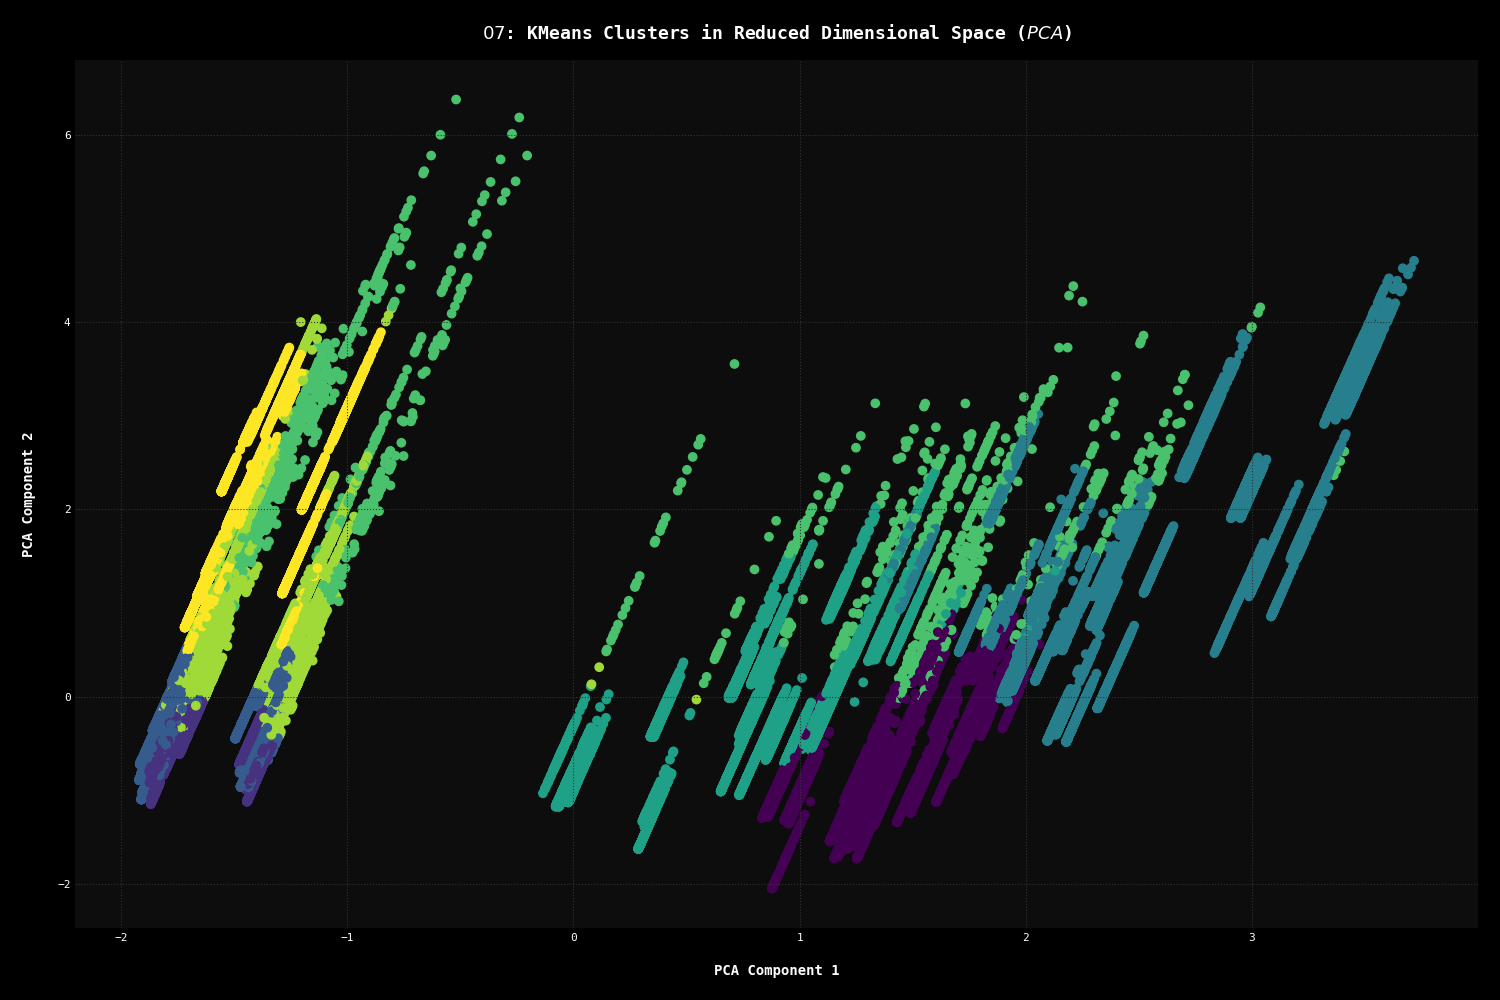
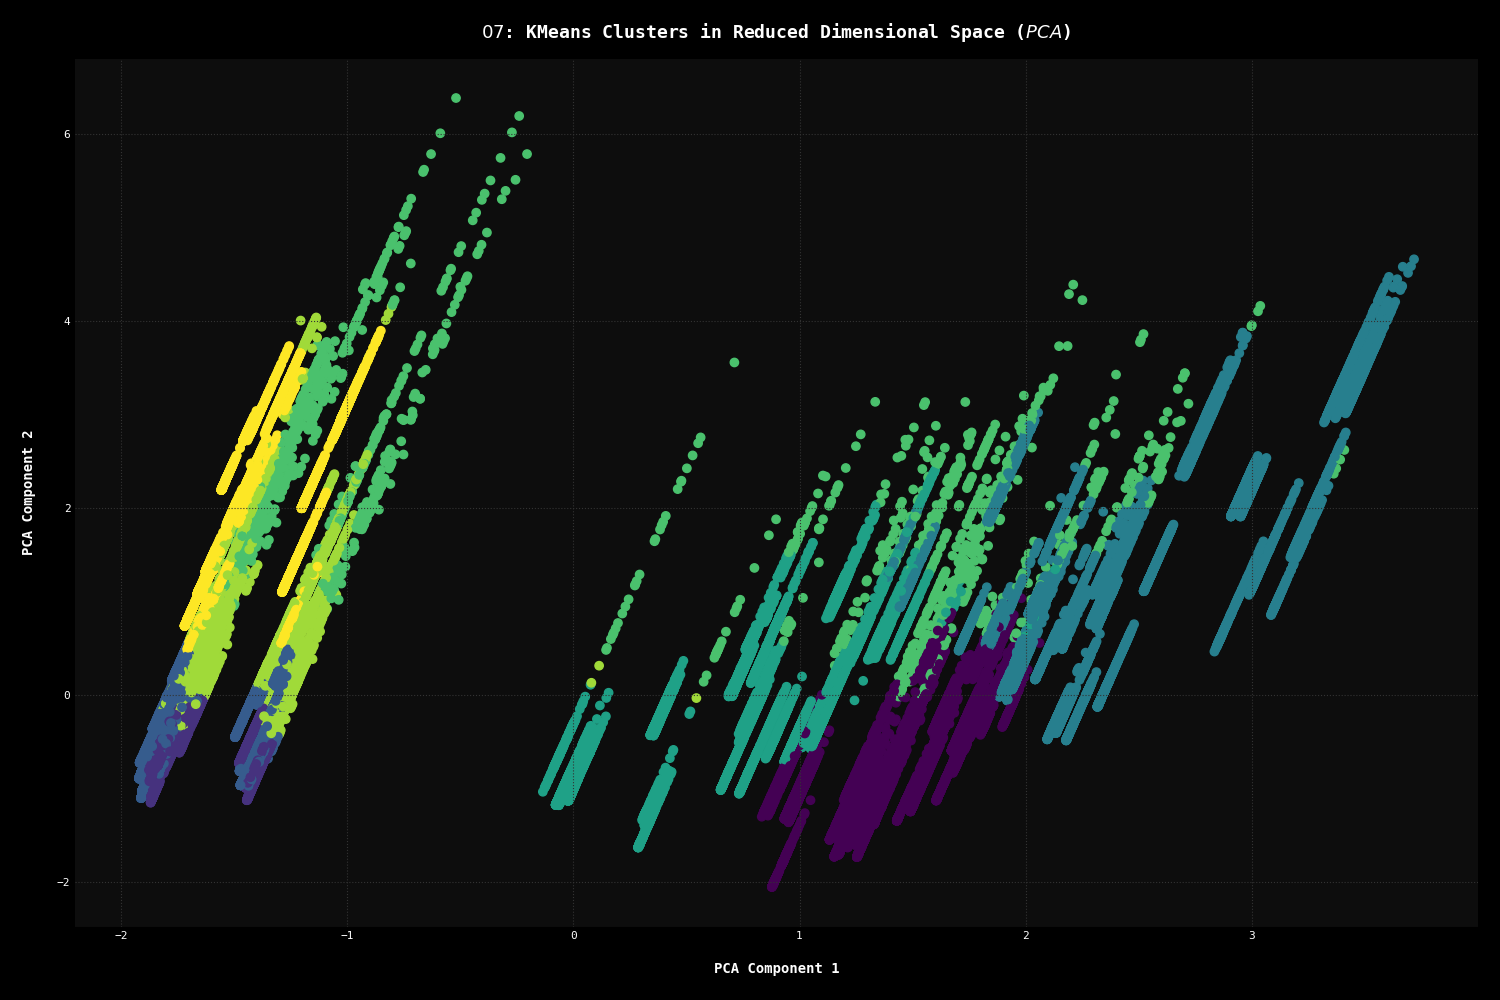
Decomposition through jp09

diff --git a/src/analysis/jp/jp09.py b/src/analysis/jp/jp09.py
@@ -1,0 +1,101 @@
+import matplotlib.pyplot as plt
+
+from analysis.jp.flat        import prepare_data
+from analysis.jp.jp04        import remove_anomalies
+from analysis.jp.jp06        import lasso
+from sklearn.ensemble        import RandomForestRegressor
+from sklearn.metrics         import mean_squared_error, r2_score
+from sklearn.model_selection import train_test_split, RandomizedSearchCV
+from utils.runtime           import find_project_root
+
+def random_forest(X_train_lasso, y_train):
+    '''
+    Fits a Random Forest Regressor model using Randomized Search CV for hyperparameter tuning and visualizes predictions.
+
+    Methodology:
+        1. Perform a train/test split on the training dataset.
+        2. Tune hyperparameters using Randomized Search CV.
+        3. Fit the best Random Forest model and make predictions.
+        4. Visualize the predicted vs. actual values and calculate R² and MSE.
+
+    Data Science Concepts:
+        • Random Forest:
+            - An ensemble learning method that operates by constructing multiple decision trees during training.
+            - For regression tasks, the output of the random forest is the mean prediction of the individual trees.
+        • Hyperparameter Tuning:
+            - The process of selecting the set of optimal hyperparameters for a learning algorithm, often using methods like 
+              grid search or randomized search.
+
+    Parameters:
+        X_train_lasso (pd.DataFrame) : The transformed training feature set from LASSO feature selection.
+        y_train       (pd.Series)    : The training target variable.
+
+    Produces:
+        A scatter plot saved as a PNG file and displayed on the screen, showing the comparison between predicted and actual values.
+    '''
+
+    # 1: Splitting the data
+    X_train_rf, X_test_rf, y_train_rf, y_test_rf = train_test_split(X_train_lasso, y_train, random_state = 0)
+
+    # 2: Initialize the Random Forest Regressor
+    rf = RandomForestRegressor(random_state = 0)
+
+    # Hyperparameter Grid
+    distributions = {'n_estimators'      : [1, 2, 4, 8, 16],
+                     'max_depth'         : [1, 2, 4, 8, 16],
+                     'min_samples_split' : [2, 4, 8, 16],
+                     'min_samples_leaf'  : [1, 2, 4, 8]}
+
+    # 3: # Randomized Search with Cross-Validation
+    random_search = RandomizedSearchCV(rf, distributions, n_jobs = -1, random_state = 0)
+    random_search.fit(X_train_rf, y_train_rf)
+
+    # Predictions using the best model
+    best_rf   = random_search.best_estimator_
+    y_pred_rf = best_rf.predict(X_test_rf)
+
+    # 4: Visualizing predictions vs. actual values
+    plt.plot([y_test_rf.min(), y_test_rf.max()], [y_test_rf.min(), y_test_rf.max()], color = '#545B63', linestyle = '--')
+    plt.scatter(x = y_test_rf, 
+                y = y_pred_rf, 
+                c = y_test_rf - y_pred_rf,
+                cmap = 'twilight_shifted',
+                vmin = -1, 
+                vmax = 1,
+                edgecolor = None)
+
+    # Text annotation for R² and MSE
+    plt.text(0.5, 0.1, 
+             (f"R²  ${r2_score(y_test_rf, y_pred_rf):.3f}$\n"
+              f"MSE ${mean_squared_error(y_test_rf, y_pred_rf):.3f}$"), 
+             fontsize = 12, fontweight = 'bold', linespacing = 1.8,
+             bbox = dict(facecolor = '0.3', edgecolor = '0.3', boxstyle = 'round,pad = 0.75', alpha = 0.5),
+             ha = 'left', va = 'center', transform = plt.gca().transAxes)
+
+    # Second text annotation for hyperparameters (top left)
+    plt.text(0.05, 0.95, 
+             (f"Max Depth         ${best_rf.get_params()['max_depth']}$\n"
+              f"Min Samples Split ${best_rf.get_params()['min_samples_split']}$\n"
+              f"Min Samples Leaf  ${best_rf.get_params()['min_samples_leaf']}$\n"
+              f"# of Estimators   ${best_rf.get_params()['n_estimators']}$"), 
+             fontsize = 9, fontweight = 'bold', linespacing = 1.3,
+             bbox = dict(facecolor = '0.3', edgecolor = '0.3', boxstyle = 'round,pad = 0.75', alpha = 0.5),
+             ha = 'left', va = 'top', transform = plt.gca().transAxes)
+
+    plt.colorbar(label = 'Residuals')
+    plt.xlabel('Total Cost')
+    plt.ylabel('Predicted Values')
+    plt.title('$09$: Random Forest - Predictions vs. Actual Values')
+    plt.tight_layout(pad = 2.0)
+
+    # Saving the plot to a file
+    file_path = find_project_root('./fig/analysis/jp/09 - Random Forest Predictions vs Actual Values.png')
+    plt.savefig(file_path)
+    plt.show()
+
+if __name__ == "__main__":
+    
+    df  = prepare_data()
+    dfa = remove_anomalies(df)
+    X_train_lasso, _, y_train, _ = lasso(dfa)
+    random_forest(X_train_lasso, y_train)

diff --git a/src/analysis/jp/jp08.py b/src/analysis/jp/jp08.py
@@ -1,0 +1,78 @@
+import matplotlib.pyplot as plt
+
+from analysis.jp.flat     import prepare_data
+from analysis.jp.jp04     import remove_anomalies
+from analysis.jp.jp06     import lasso
+from sklearn.linear_model import LinearRegression
+from sklearn.metrics      import mean_squared_error, r2_score
+from utils.runtime        import find_project_root
+
+def slr(X_train_lasso, X_test_lasso, y_train, y_test):
+    '''
+    Fits a Linear Regression model and visualizes predictions against actual values.
+
+    Methodology:
+        1. Fit a Linear Regression model using the training data.
+        2. Predict values using the test data.
+        3. Visualize the predicted vs. actual values and calculate R² and MSE.
+
+    Data Science Concepts:
+        • Linear Regression:
+            - A linear approach to modelling the relationship between a dependent variable and one or more independent variables.
+        • R² (Coefficient of Determination):
+            - A statistical measure of how well the regression predictions approximate the real data points.
+        • MSE (Mean Squared Error):
+            - The average squared difference between the estimated values and the actual value.
+
+    Parameters:
+        X_train_lasso (pd.DataFrame) : The transformed training feature set from LASSO feature selection.
+        X_test_lasso  (pd.DataFrame) : The transformed test feature set from LASSO feature selection.
+        y_train       (pd.Series)    : The training target variable.
+        y_test        (pd.Series)    : The test target variable.
+
+    Produces:
+        A scatter plot saved as a PNG file and displayed on the screen, showing the comparison between predicted and actual values.
+    '''
+
+    # 1: Fitting the Linear Regression model
+    linear_regression = LinearRegression()
+    linear_regression.fit(X_train_lasso, y_train)
+    y_pred = linear_regression.predict(X_test_lasso)
+
+    # 2: Plotting perfect prediction line
+    plt.plot([y_test.min(), y_test.max()], [y_test.min(), y_test.max()], color='#545B63', linestyle='--')
+
+    # 3: Plotting the scatter plot for actual vs predicted values
+    plt.scatter(x = y_test, 
+                y = y_pred, 
+                c = y_test - y_pred,
+                cmap = 'twilight_shifted',
+                vmin = -1, 
+                vmax = 1,
+                edgecolor = None)
+
+    # Displaying R² and MSE
+    plt.text(0.5, 0.1, 
+             (f"R²  ${r2_score(y_test, y_pred):.3f}$\n"
+              f"MSE ${mean_squared_error(y_test, y_pred):.3f}$"), 
+             fontsize = 12, fontweight = 'bold', linespacing = 1.8,
+             bbox = dict(facecolor = '0.3', edgecolor = '0.3', boxstyle = 'round,pad = 0.75', alpha = 0.5),
+             ha = 'left', va = 'center', transform = plt.gca().transAxes)
+
+    plt.colorbar(label = 'Residuals')
+    plt.xlabel('Total Cost')
+    plt.ylabel('Predicted Values')
+    plt.title('$08$: Linear Regression - Predictions vs. Actual Values')
+    plt.tight_layout(pad=2.0)
+
+    # Saving the plot to a file
+    file_path = find_project_root('./fig/analysis/jp/08 - Linear Regression Predictions vs Actual Values.png')
+    plt.savefig(file_path)
+    plt.show()
+
+if __name__ == "__main__":
+    
+    df  = prepare_data()
+    dfa = remove_anomalies(df)
+    X_train_lasso, X_test_lasso, y_train, y_test = lasso(dfa)
+    slr(X_train_lasso, X_test_lasso, y_train, y_test)

diff --git a/src/analysis/jp/jp07.py b/src/analysis/jp/jp07.py
@@ -1,0 +1,65 @@
+import matplotlib.pyplot as plt
+
+from analysis.jp.flat      import prepare_data
+from analysis.jp.jp04      import remove_anomalies
+from analysis.jp.jp06      import lasso
+from sklearn.cluster       import KMeans
+from sklearn.decomposition import PCA
+from utils.runtime         import find_project_root
+
+def kmeans(X_train_lasso):
+    '''
+    Applies K-Means clustering and PCA (Principal Component Analysis) on the dataset for visualization.
+
+    Methodology:
+        1. Apply K-Means clustering to the dataset.
+        2. Perform PCA for dimensionality reduction to 2 components.
+        3. Visualize the clusters in the reduced dimensional space.
+
+    Data Science Concepts:
+        • K-Means Clustering:
+            - An unsupervised machine learning algorithm used for clustering data into 'K' number of clusters.
+            - Works by assigning data points to clusters such that the sum of the squared distance between the 
+              data points and the cluster's centroid (arithmetic mean of all the data points that belong to that cluster) is minimized.
+        • PCA (Principal Component Analysis):
+            - A technique for reducing the dimensionality of datasets, increasing interpretability while minimizing information loss.
+            - It transforms the original variables into a new set of variables (principal components) that are orthogonal 
+              (uncorrelated), with the most important principal components carrying most of the variability in the data.
+
+    Parameters:
+        X_train_lasso (pd.DataFrame): The transformed training feature set from LASSO feature selection.
+
+    Produces:
+        A scatter plot saved as a PNG file and displayed on the screen, showing KMeans clusters in reduced dimensional space.
+    '''
+
+    # 1: Applying K-Means clustering
+    kmeans = KMeans(n_init = 'auto', random_state = 0)
+    clusters = kmeans.fit_predict(X_train_lasso)
+
+    # 2: Applying PCA for dimensionality reduction
+    pca = PCA(n_components = 2)
+    reduced = pca.fit_transform(X_train_lasso.toarray())
+
+    # 3: Visualizing the clusters in 2D
+    plt.scatter(reduced[:, 0], 
+                reduced[:, 1], 
+                c=clusters, 
+                cmap='viridis')
+
+    plt.xlabel('PCA Component 1')
+    plt.ylabel('PCA Component 2')
+    plt.title('$07$: KMeans Clusters in Reduced Dimensional Space ($PCA$)')
+    plt.tight_layout(pad = 2.0)
+
+    # Saving the plot to a file
+    file_path = find_project_root('./fig/analysis/jp/07 - KMeans Clusters in Reduced Dimensional Space.png')
+    plt.savefig(file_path)
+    plt.show()
+
+if __name__ == "__main__":
+    
+    df  = prepare_data()
+    dfa = remove_anomalies(df)
+    X_train_lasso, _, _, _ = lasso(dfa)
+    kmeans(X_train_lasso)

diff --git a/src/analysis/jp/jp06.py b/src/analysis/jp/jp06.py
@@ -31,6 +31,12 @@ def lasso(df: pd.DataFrame):
     Parameters:
         df (pd.DataFrame): The dataframe returned from the `remove_anomalies` function.
 
+    Returns:
+        X_train_lasso (pd.DataFrame) : The transformed training feature set.
+        X_test_lasso  (pd.DataFrame) : The transformed test feature set.
+        y_train       (pd.Series)    : The training target variable.
+        y_test        (pd.Series)    : The test target variable.
+
     Produces:
         A bar plot saved as a PNG file and displayed on the screen, showing the importance of each feature determined by LASSO.
     '''
@@ -62,13 +68,17 @@ def lasso(df: pd.DataFrame):
     X_train, X_test, y_train, y_test = train_test_split(X, y, random_state=0)
     model.fit(X_train, y_train)
 
+    # Transforming data with the selected features
+    X_train_lasso = model.transform(X_train)
+    X_test_lasso  = model.transform(X_test)
+
     # Accessing the fitted LassoCV model, getting its feature names, and applying the SelectFromModel mask
     lasso_cv        = model.named_steps['feature_selector'].estimator_
     feature_names   = model.named_steps['preprocessor'].get_feature_names_out()
     selection_mask  = model.named_steps['feature_selector'].get_support()
     shortened_names = [re.split('[: ]', name)[0] for name in feature_names[selection_mask]]
 
-    # Creating a Series for easy plotting
+    # Creating a pandas.Series for easy plotting
     feature_importance = pd.Series(data  = lasso_cv.coef_[selection_mask], 
                                    index = shortened_names).sort_values(ascending = False)
 
@@ -88,6 +98,8 @@ def lasso(df: pd.DataFrame):
     file_path = find_project_root('./fig/analysis/jp/06 - Feature Selection for Determining Total Cost.png')
     plt.savefig(file_path)
     plt.show()
+
+    return X_train_lasso, X_test_lasso, y_train, y_test
 
 if __name__ == "__main__":
     
